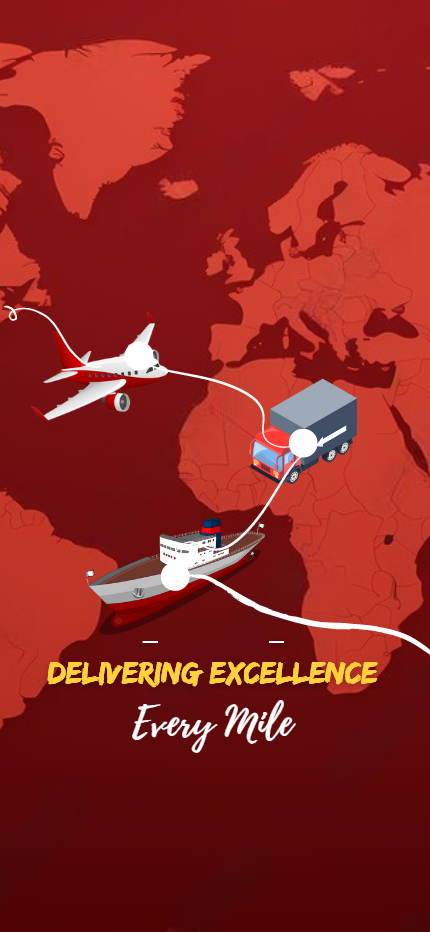
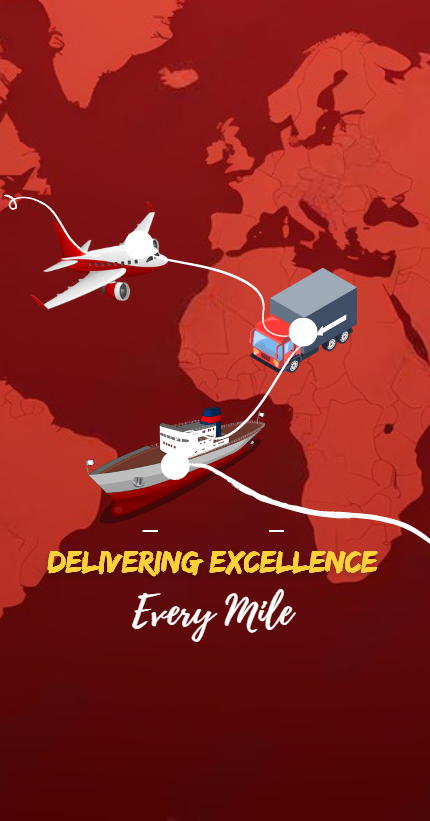
Add files via upload

diff --git a/style.css b/style.css
@@ -486,7 +486,7 @@ body {
         position: relative;
         width: inherit;
         height: inherit;
-        margin-top: -11vh;
+        /* margin-top: -11vh; */
         background-image: url('images/mobile3.png');
         background-size: cover;
         background-position: center;
@@ -505,7 +505,7 @@ body {
         display: flex;
         align-items: center;
         padding: 20px;
-        margin-top: 30px;
+        margin-top: 0px;
         border-radius: 25px;
         /* Rounded container */
         text-align: center;
